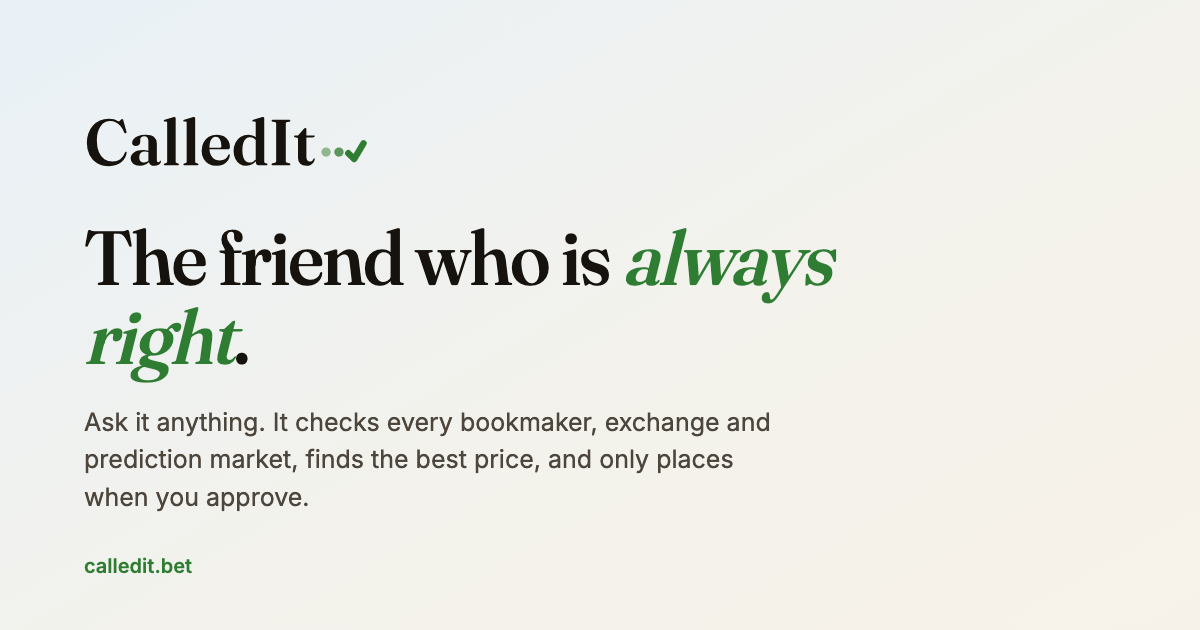
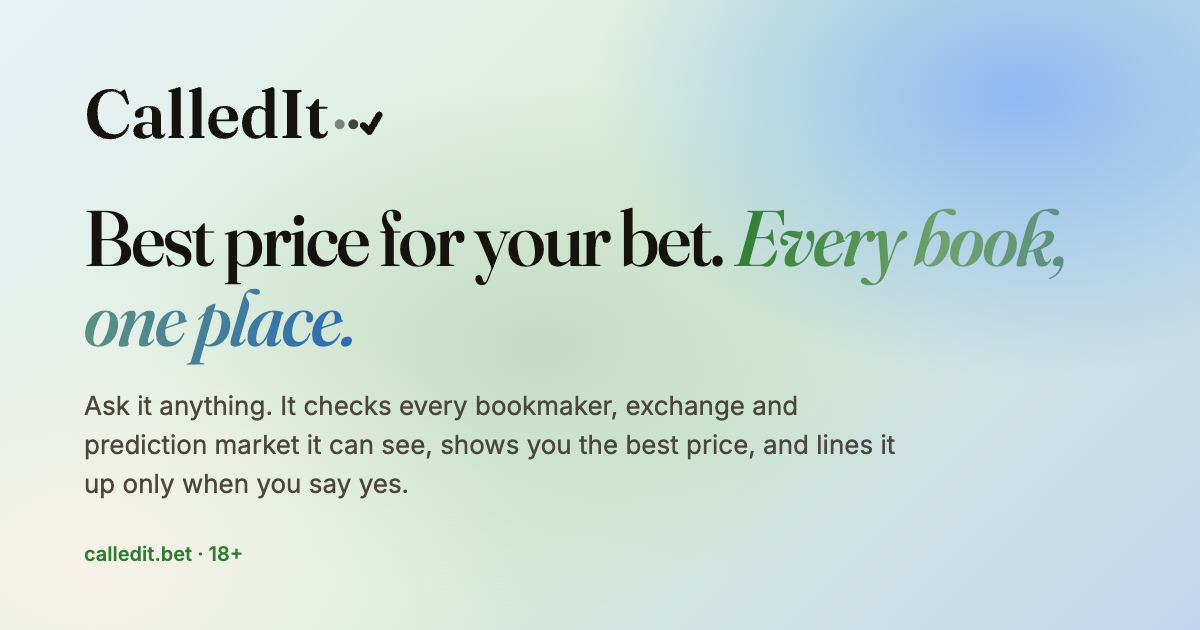
Site: the social card reads "Best price for your bet, every book in one place"

diff --git a/index.html b/index.html
@@ -17,12 +17,12 @@
 <meta property="og:image" content="https://calledit.bet/brand/calledit-og.png">
 <meta property="og:image:width" content="1200">
 <meta property="og:image:height" content="630">
-<meta property="og:image:alt" content="The CalledIt social card: the CalledIt wordmark, the line The friend who is always right, and the address calledit.bet.">
+<meta property="og:image:alt" content="The CalledIt social card: the CalledIt wordmark, the line Best price for your bet, every book in one place, and the address calledit.bet.">
 <meta name="twitter:card" content="summary_large_image">
 <meta name="twitter:title" content="CalledIt: the AI that calls your bets">
 <meta name="twitter:description" content="Best price across every bookmaker, exchange and prediction market. One tap places it on your own account at a venue you already use. Your edge, your accounts. 18+.">
 <meta name="twitter:image" content="https://calledit.bet/brand/calledit-og.png">
-<meta name="twitter:image:alt" content="The CalledIt social card: the CalledIt wordmark, the line The friend who is always right, and the address calledit.bet.">
+<meta name="twitter:image:alt" content="The CalledIt social card: the CalledIt wordmark, the line Best price for your bet, every book in one place, and the address calledit.bet.">
 <link rel="icon" href="/brand/calledit-icon.svg" type="image/svg+xml">
 <link rel="icon" href="/brand/calledit-favicon-32.png" sizes="32x32" type="image/png">
 <link rel="icon" href="/brand/calledit-favicon-16.png" sizes="16x16" type="image/png">
